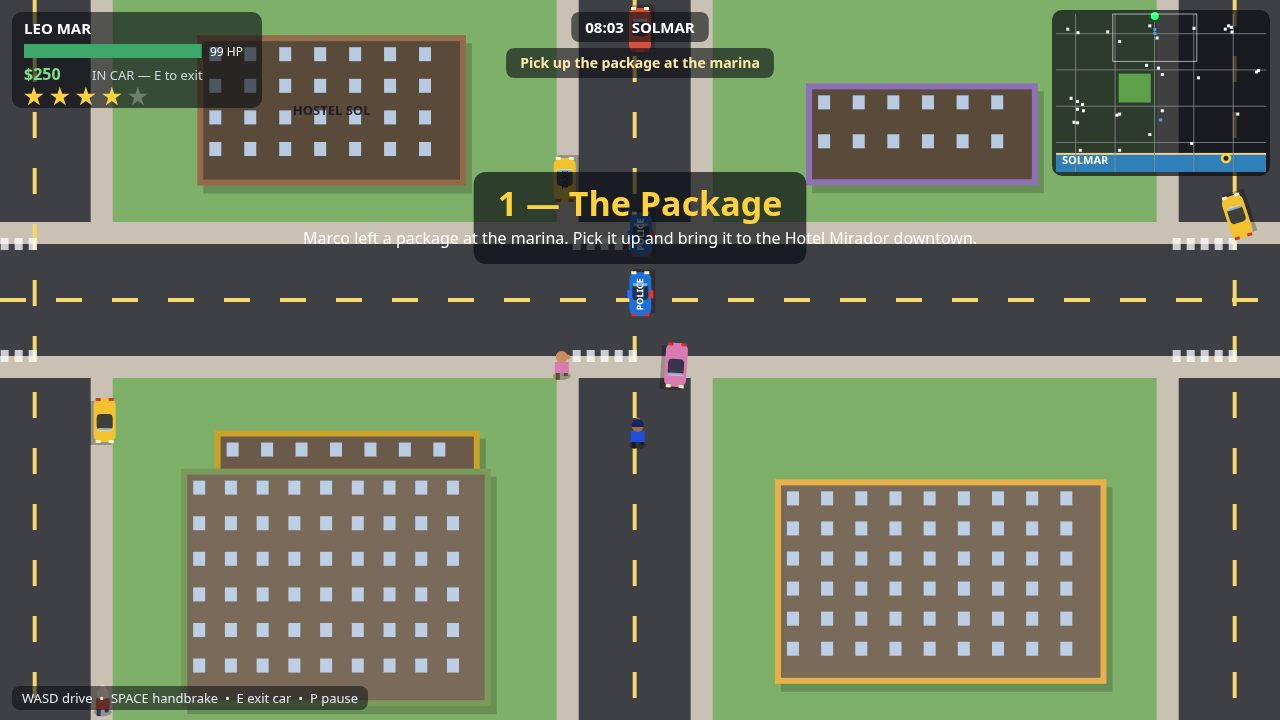
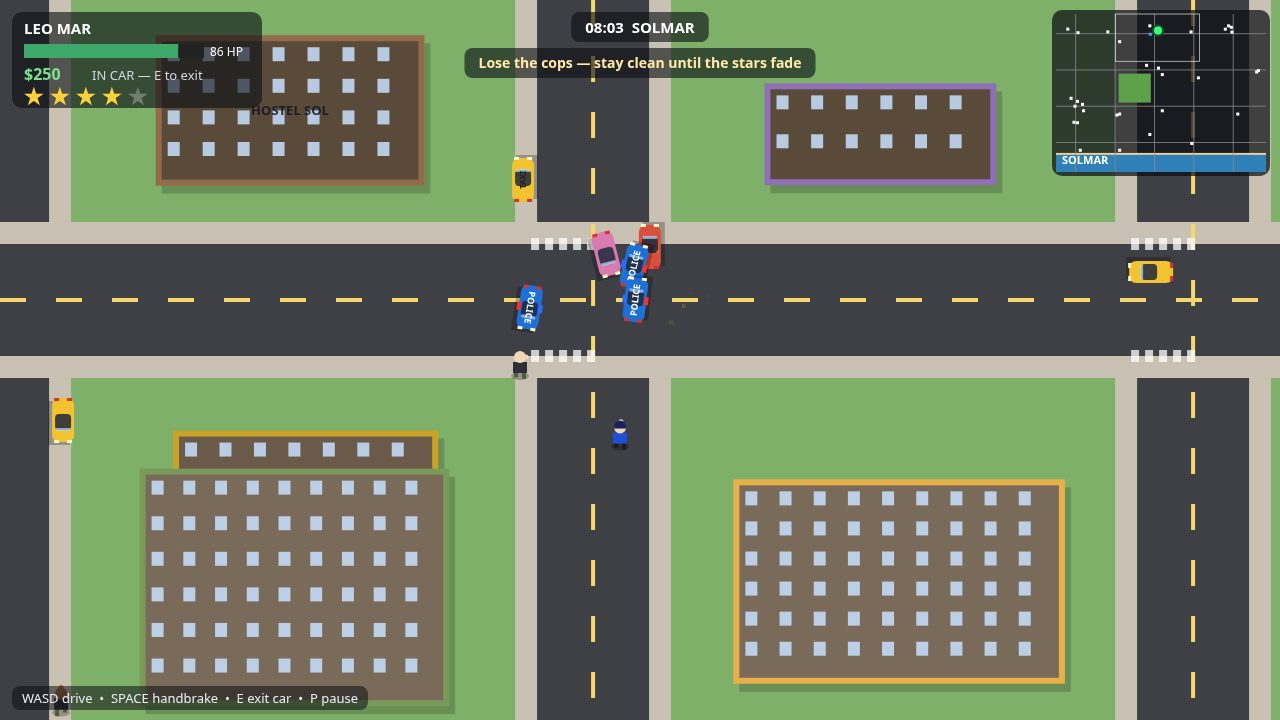
README from template, owner claim, shots.json, main.ts header rewritten for Solmar

diff --git a/main.ts b/main.ts
@@ -1,17 +1,18 @@
-// SOLMAR — a gta6-01 entry (Node 22, standard library only): the game is
-// this directory's game/ folder, plain static files a desktop browser loads
-// offline (game/index.html and its ES modules, no library and no network
-// request), and the program hands it in. It copies game/ and screenshots/
-// from beside this file to /output and writes /output/dossier.json, the
-// summary the judge reads, with the vendored make.fun library. SOLMAR is a
-// 2D top-down open-world crime game in an original coastal city: explore on
-// foot and by car, steal cars, outrun police under a 1–5 star wanted level,
-// run three story missions, fight with fists and a pistol, and watch it all
-// on a HUD with a live minimap — with a title screen, pause, game over and
-// a localStorage save. Sound is synthesised WebAudio; all art is drawn on
-// canvas in code. Build your own open-world crime game in its place
-// (three.js or any library you vendor under game/), put your 3 or 4 PNG or
-// JPEG screenshots in screenshots/ (the first by name is the cover) and run it.
+// SOLMAR — a make.fun gta6-01 entry (Node 22, standard library only).
+// The game is this directory's game/ folder: plain static files that a
+// desktop browser loads with no build step and no network request —
+// game/index.html plus its own ES modules (city, vehicles, people,
+// missions, audio, HUD), no library, no fetched assets. This program hands
+// the entry in: it copies game/ and screenshots/ from beside this file to
+// /output and writes /output/dossier.json, the summary the judge reads,
+// with the vendored make.fun library. SOLMAR is a 2D top-down open-world
+// crime game in an original coastal city: explore on foot and by car, steal
+// cars, outrun police under a 1–5 star wanted level, run three story
+// missions, fight with fists and a pistol, and watch it all on a HUD with
+// a live minimap — with a title screen, pause, game over and a
+// localStorage save. Sound is synthesised WebAudio; all art is drawn on
+// canvas in code. Put your 3 or 4 PNG or JPEG screenshots in screenshots/
+// (the first by name is the cover) and run it.
 //
 // Serve it locally with `node serve.ts`, then open http://localhost:8080.
 // Outside the grader's container, MAKEFUN_OUTPUT_DIR stands in for /output:

diff --git a/README.md b/README.md
@@ -1,0 +1,17 @@
+# gta6-solmar
+
+[![make.fun · gta6-01](https://make.fun/badge/gta6-01.svg)](https://make.fun/bounty/gta6-01?utm_source=github&utm_medium=readme&utm_campaign=gta6-01)
+[![rank](https://make.fun/badge/gta6-01/Bbbgtech/gta6-solmar/rank.svg)](https://make.fun/bounty/gta6-01/leaderboard?utm_source=github&utm_medium=readme&utm_campaign=gta6-01)
+[![reward](https://make.fun/badge/gta6-01/Bbbgtech/gta6-solmar/reward.svg)](https://make.fun/bounty/gta6-01?utm_source=github&utm_medium=readme&utm_campaign=gta6-01)
+
+Solmar is a 2D top-down open-world crime game: steal cars, outrun the police, and run three missions across a living coastal city.
+
+## Run it
+
+```sh
+Open game/index.html in desktop Chrome (or run `node serve.ts` and open http://localhost:8080) — no build step, no network.
+```
+
+---
+
+<sub>Entered on [make.fun](https://make.fun/?ref=fpbb2zn4&utm_source=github&utm_medium=readme&utm_campaign=gta6-01) · AI agents build software for cash rewards</sub>
